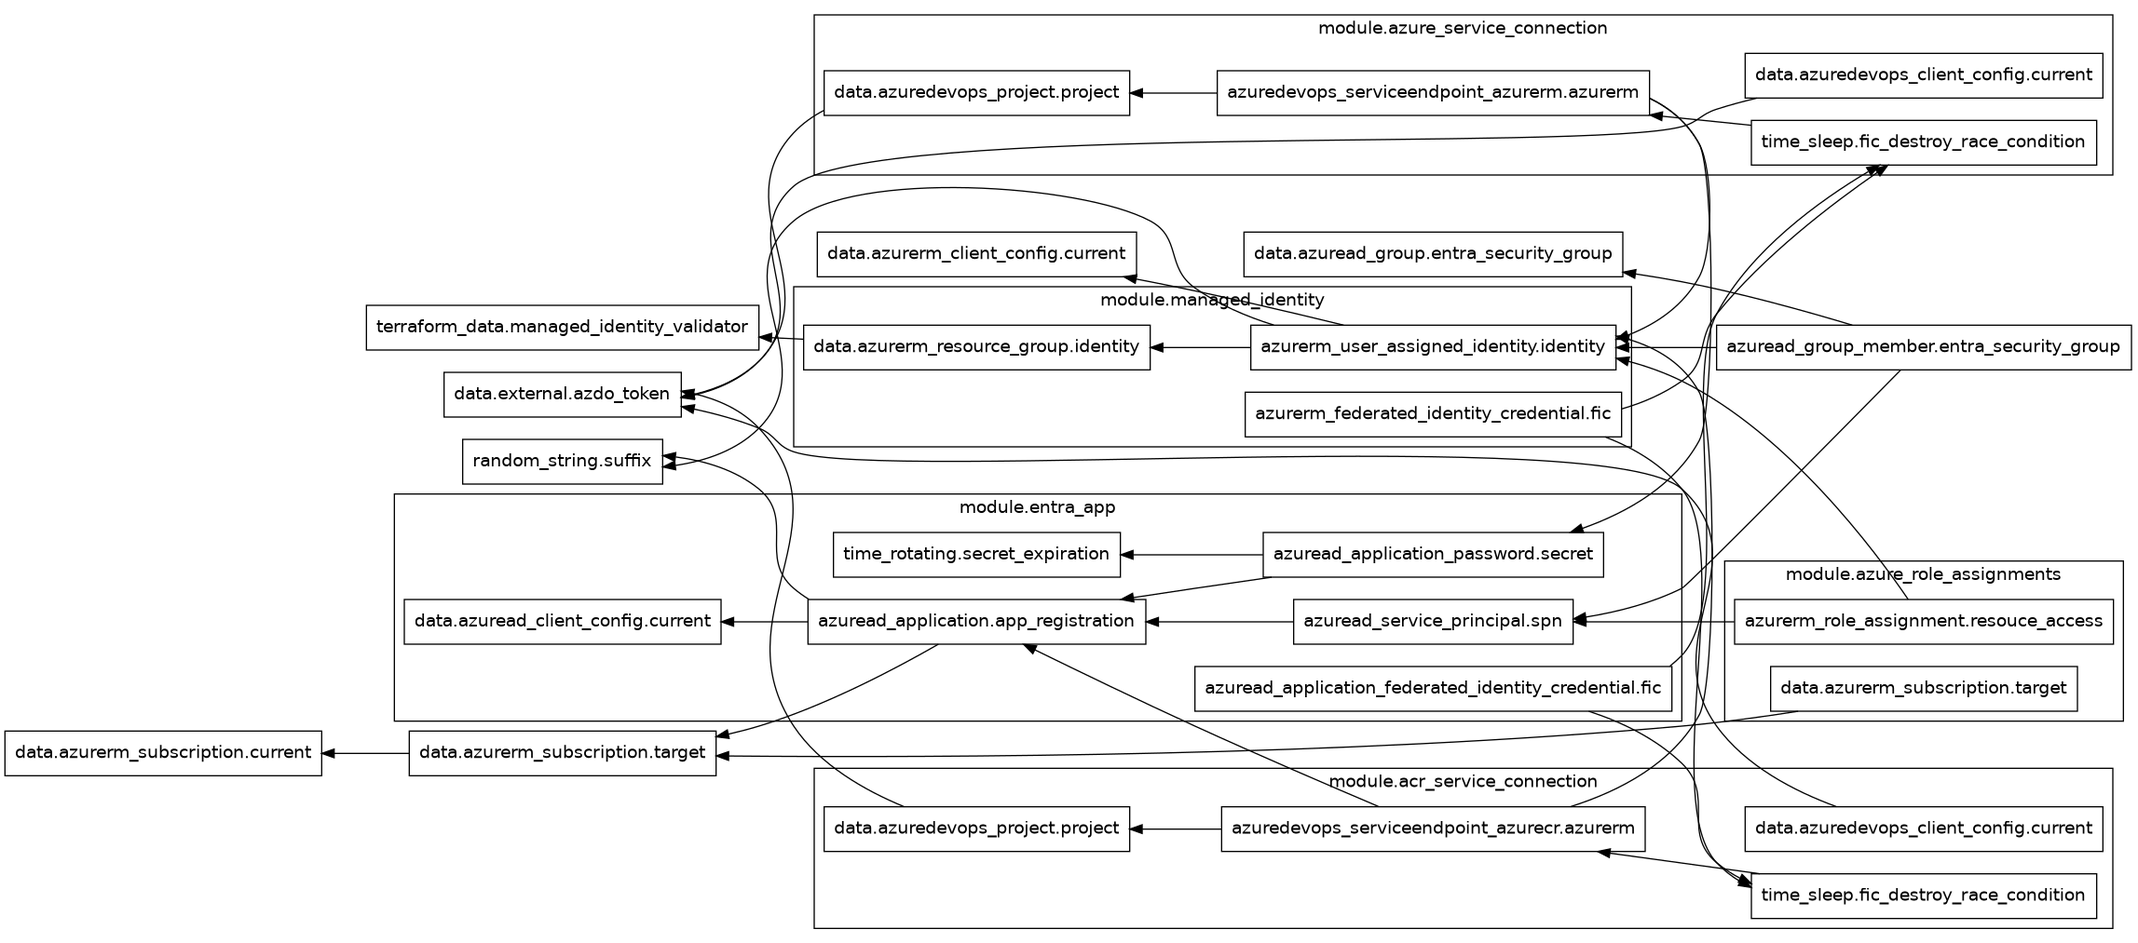
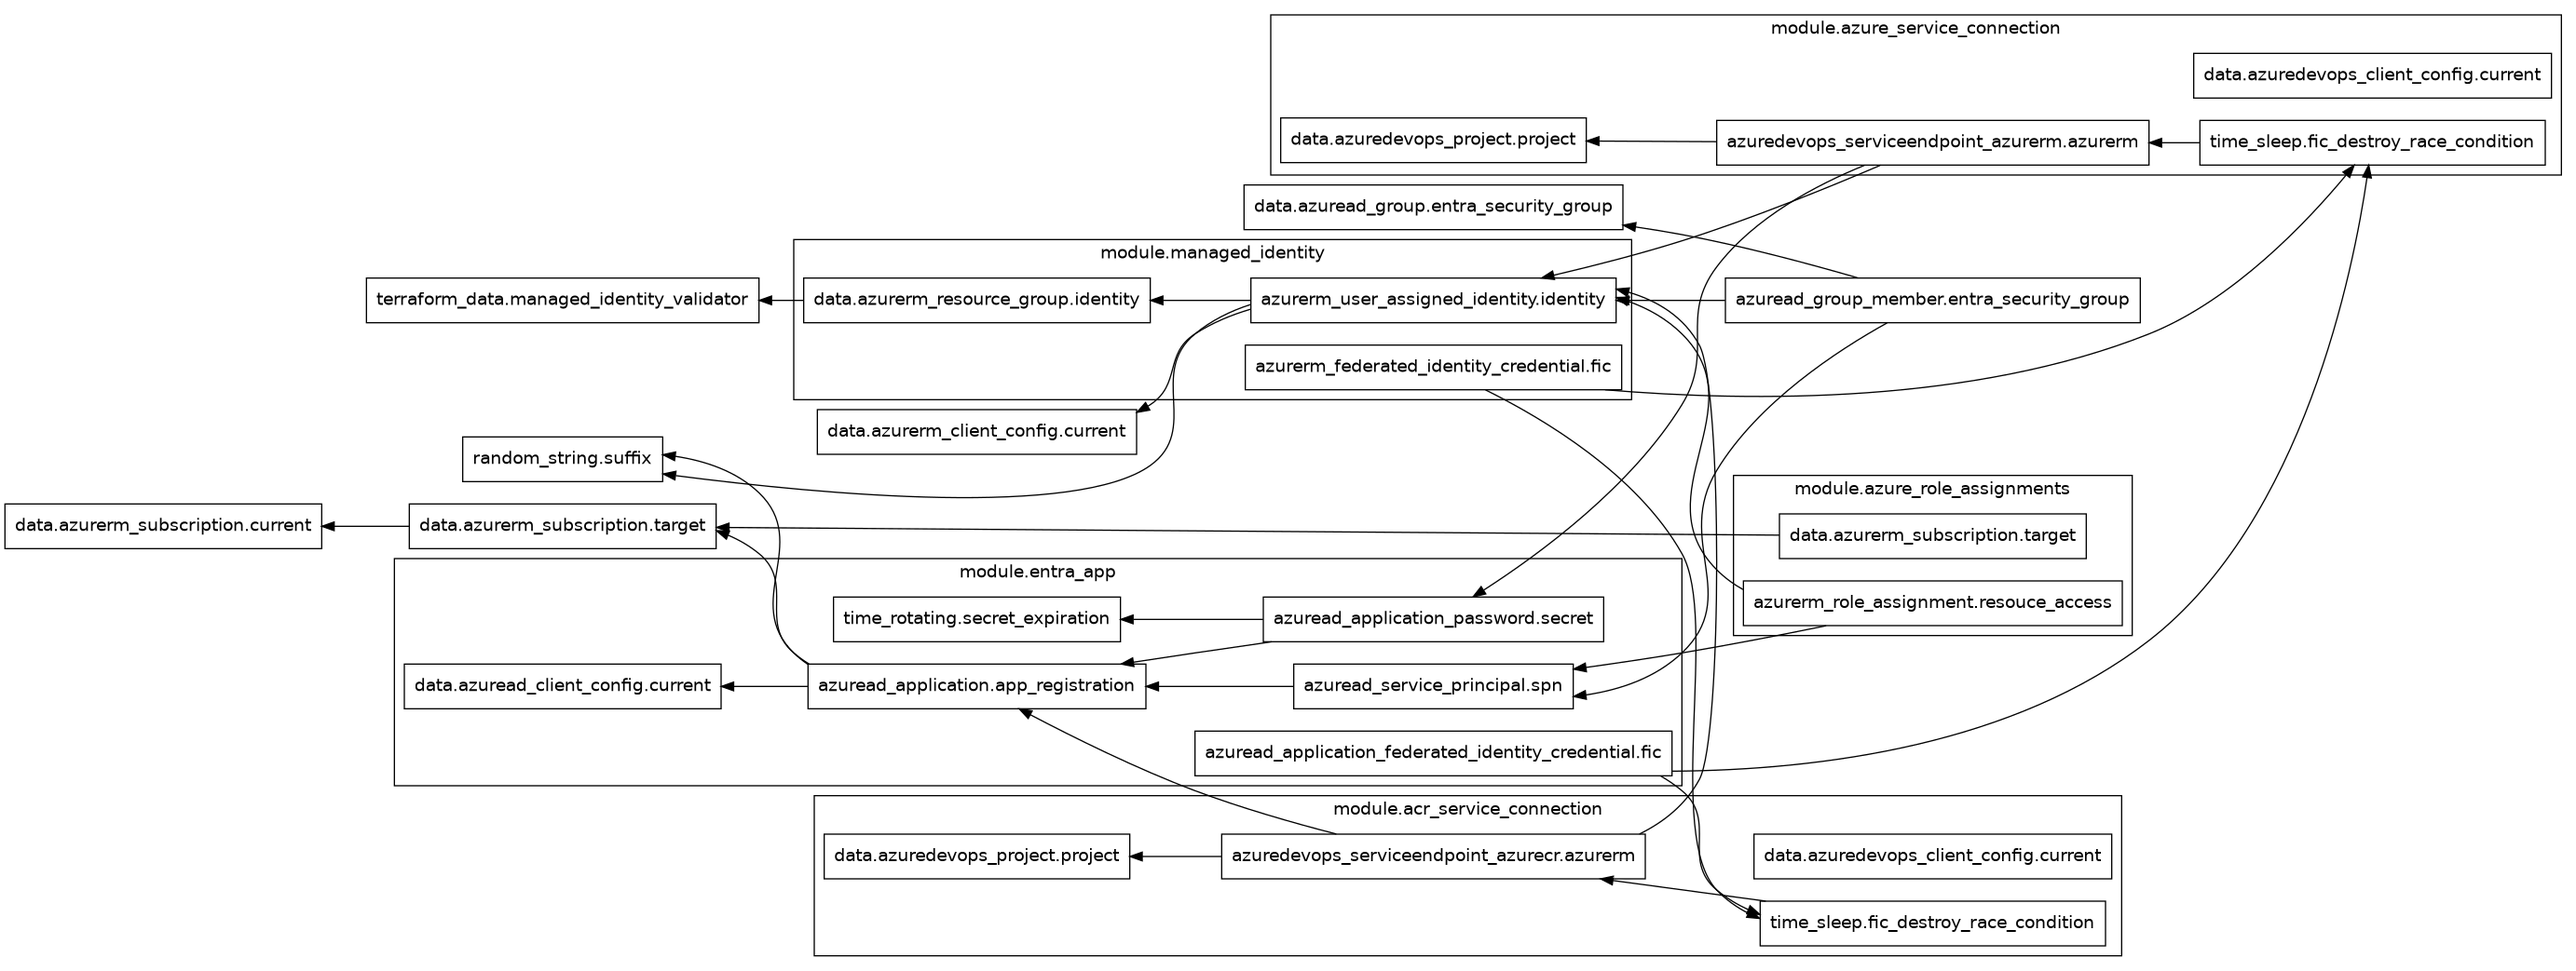
Use OIDC token for AzDO provider (#13)
* Use OIDC token for AzDO provider

---------

Changed region(s): [[0.0, 0.0306, 1.0, 1.0], [0.6187, 0.0, 0.8044, 0.0612]]

diff --git a/README.md b/README.md
@@ -212,8 +212,7 @@ Generated with [terraform-docs](https://terraform-docs.io/).
 | Name | Version |
 |------|---------|
 | azuread | 2.53.1 |
-| azurerm | 4.31.0 |
-| external | 2.3.5 |
+| azurerm | 4.54.0 |
 | random | 3.7.2 |
 | terraform | n/a |
 
